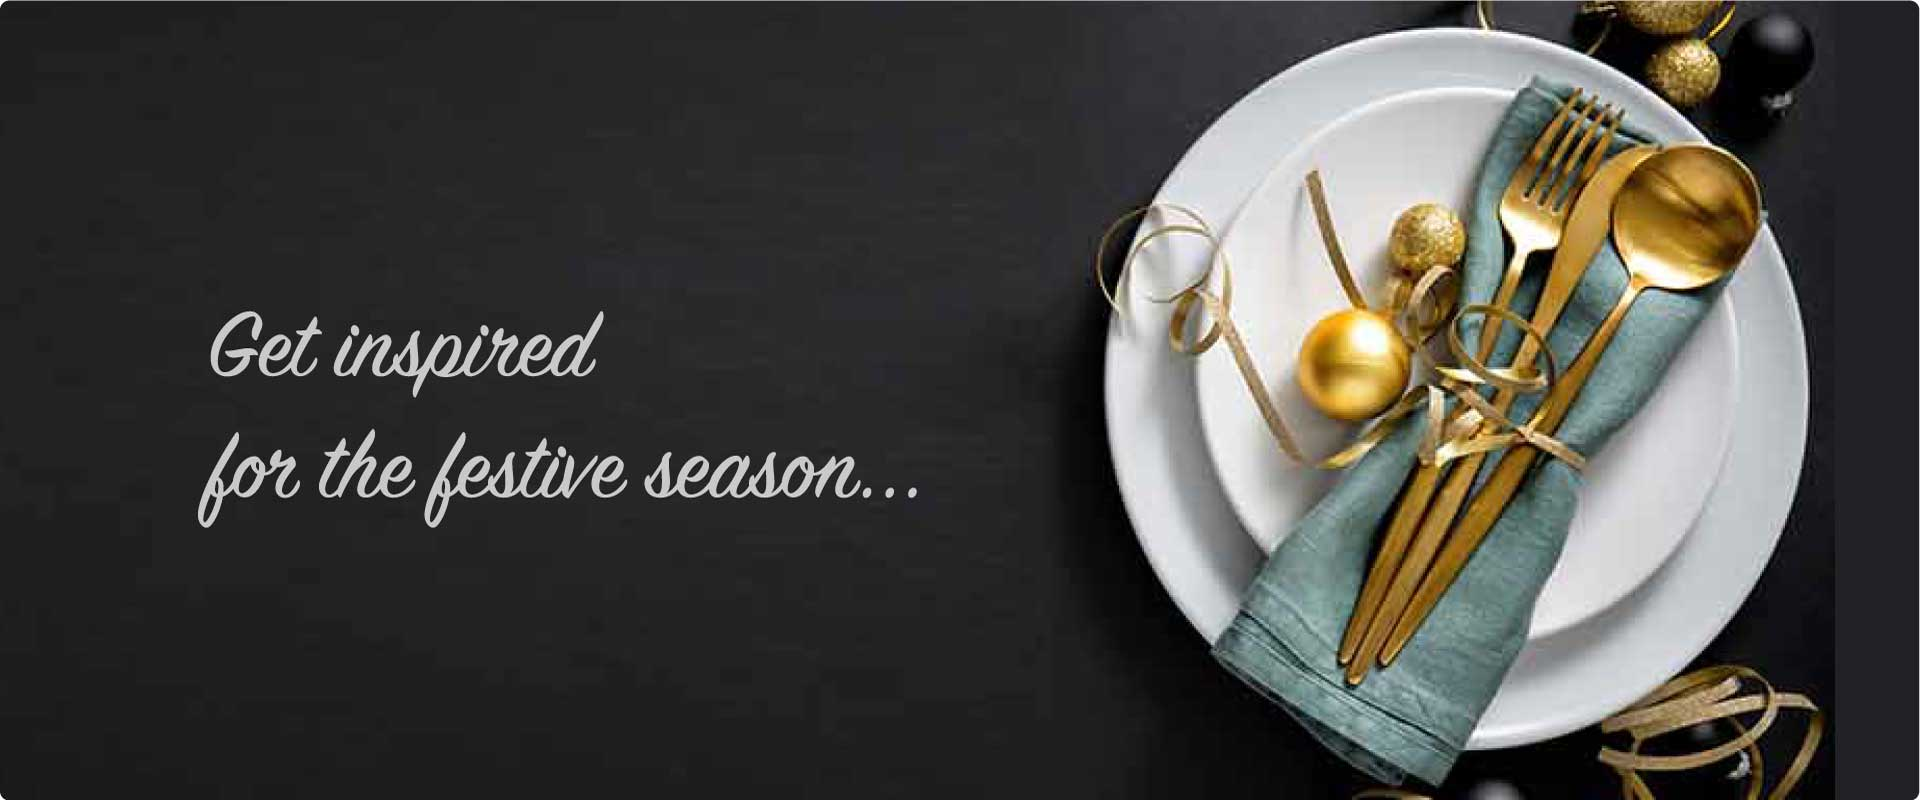
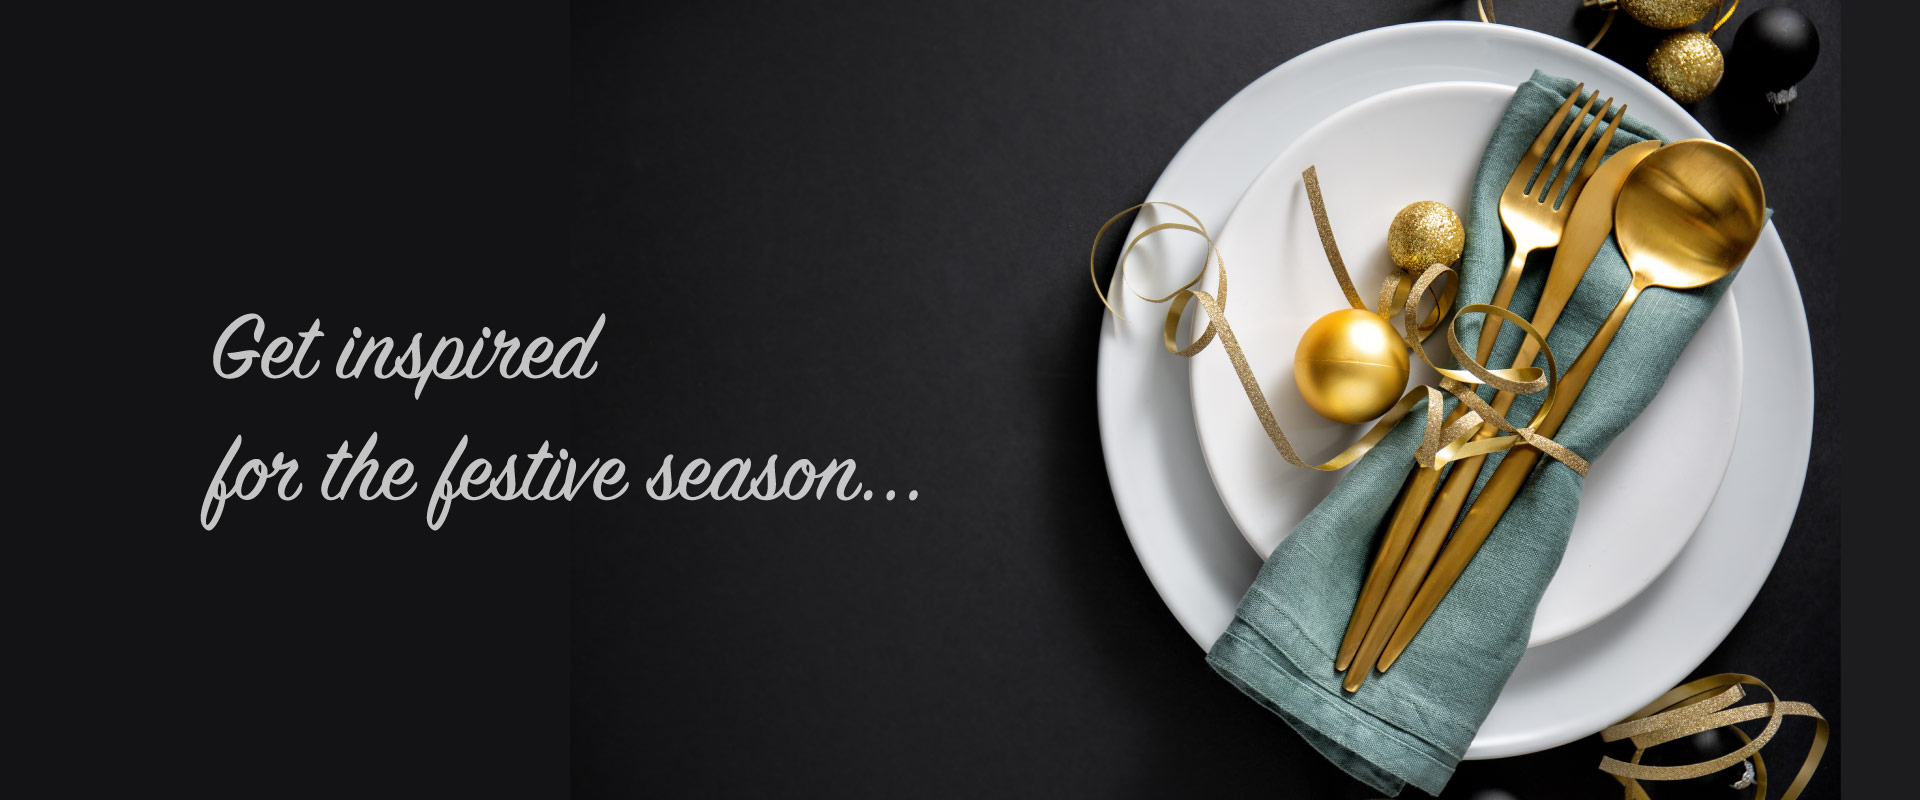
navbar and pic resulution adjusted

diff --git a/app/assets/stylesheets/components/_navbar.scss b/app/assets/stylesheets/components/_navbar.scss
@@ -1,4 +1,8 @@
 
+.navbar {
+position: fixed; top: 0; left: 0; z-index: 9999; width: 100%;
+}
+
 
 .home-logo {
   width: 120px;
@@ -72,11 +76,32 @@ width: 100%;
 
 .sign-in {
   color: #D6D5C1;
-  float: right;
-  margin-right: 50px;
   text-decoration: none;
+  margin-right: 50px;
+
 }
 
-.sign-in:hover{
+.sign-in:hover {
   color: white;
+}
+
+.navbar-icon {
+width: auto;
+height: 50px;
+}
+
+.upload-icon {
+  width: auto;
+  height: 60px;
+
+}
+
+.navbar {
+display: flex;
+}
+
+
+.upload-icon:hover {
+filter: invert(0.25);
+
 }

diff --git a/app/assets/stylesheets/components/_home.scss b/app/assets/stylesheets/components/_home.scss
@@ -17,6 +17,7 @@ margin-top: 32px;
 }
 
 
+
 .home-bottom-pic {
   width: 1000px;
   mix-blend-mode: multiply;

diff --git a/app/assets/stylesheets/components/_carousel.scss b/app/assets/stylesheets/components/_carousel.scss
@@ -2,3 +2,7 @@
   height: 400px;
   width: auto;
 }
+
+#demo {
+  margin-top: 70px;
+}
